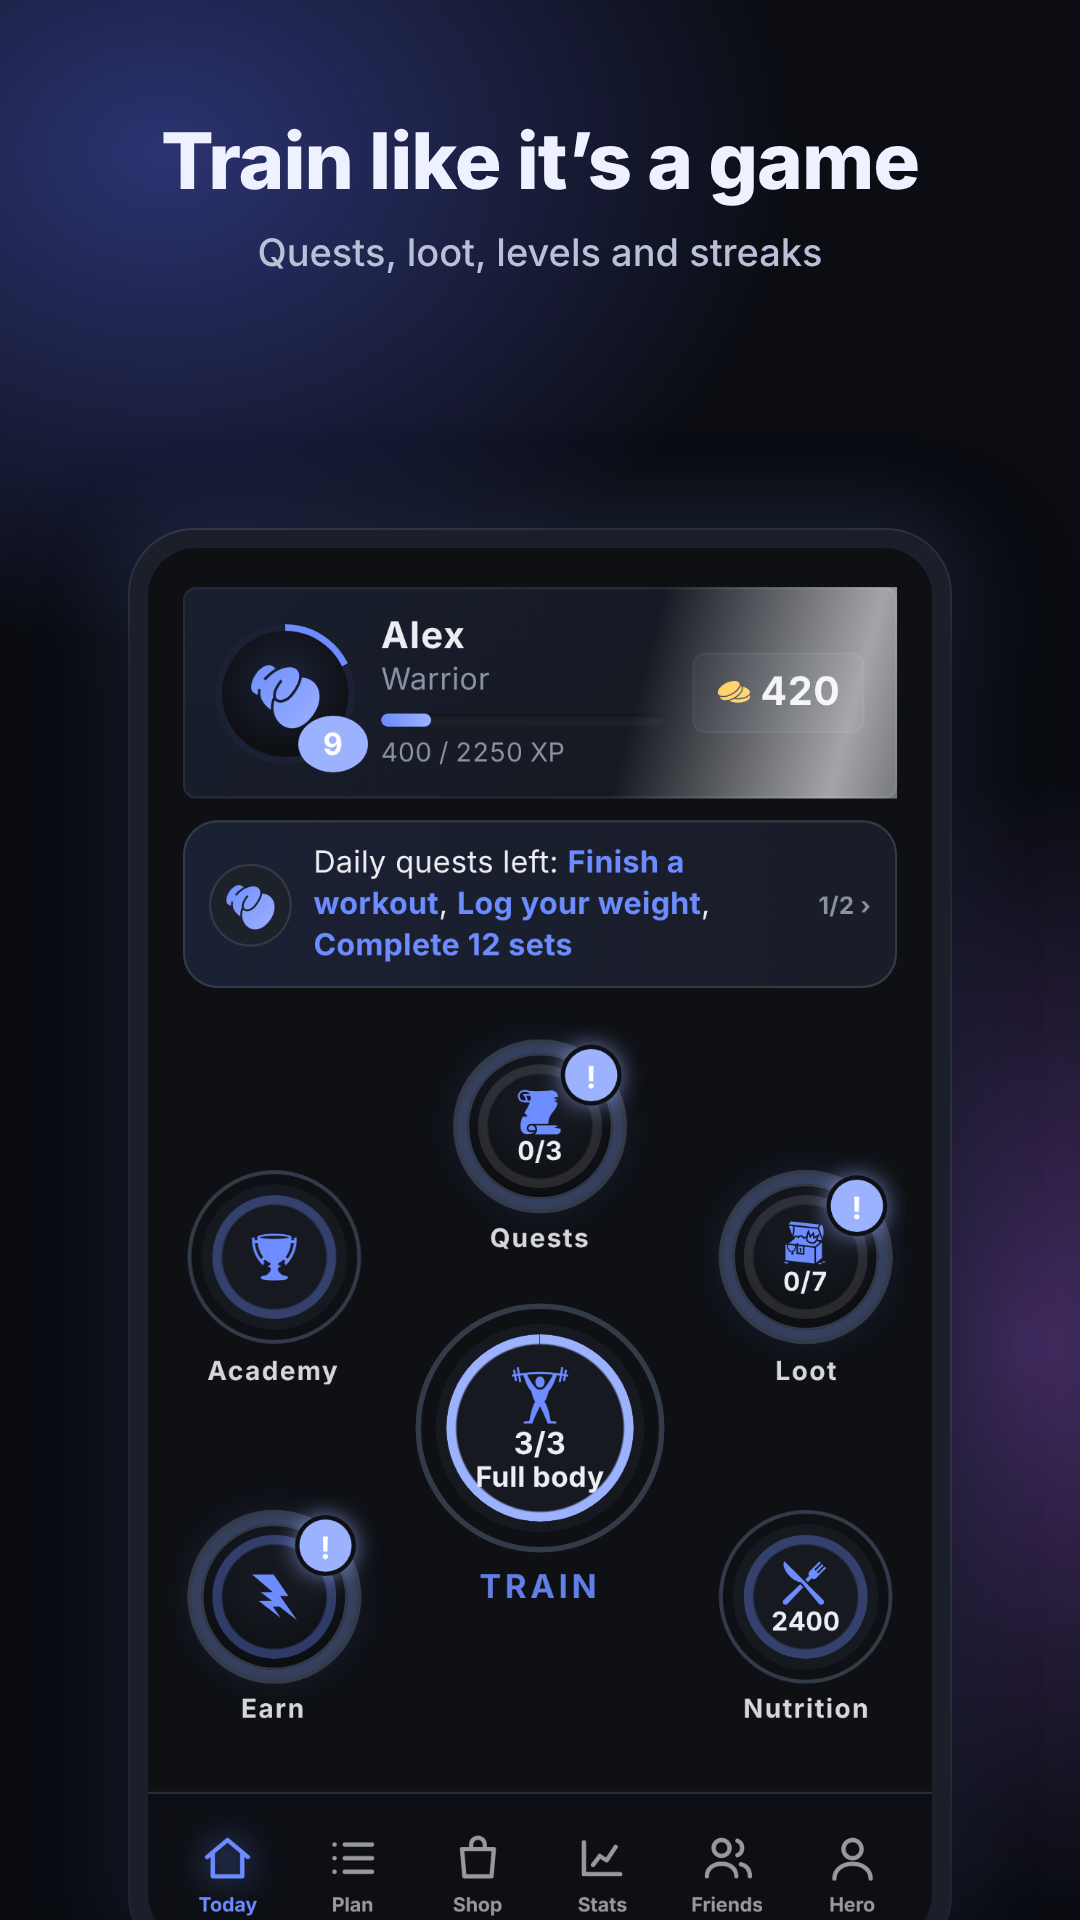
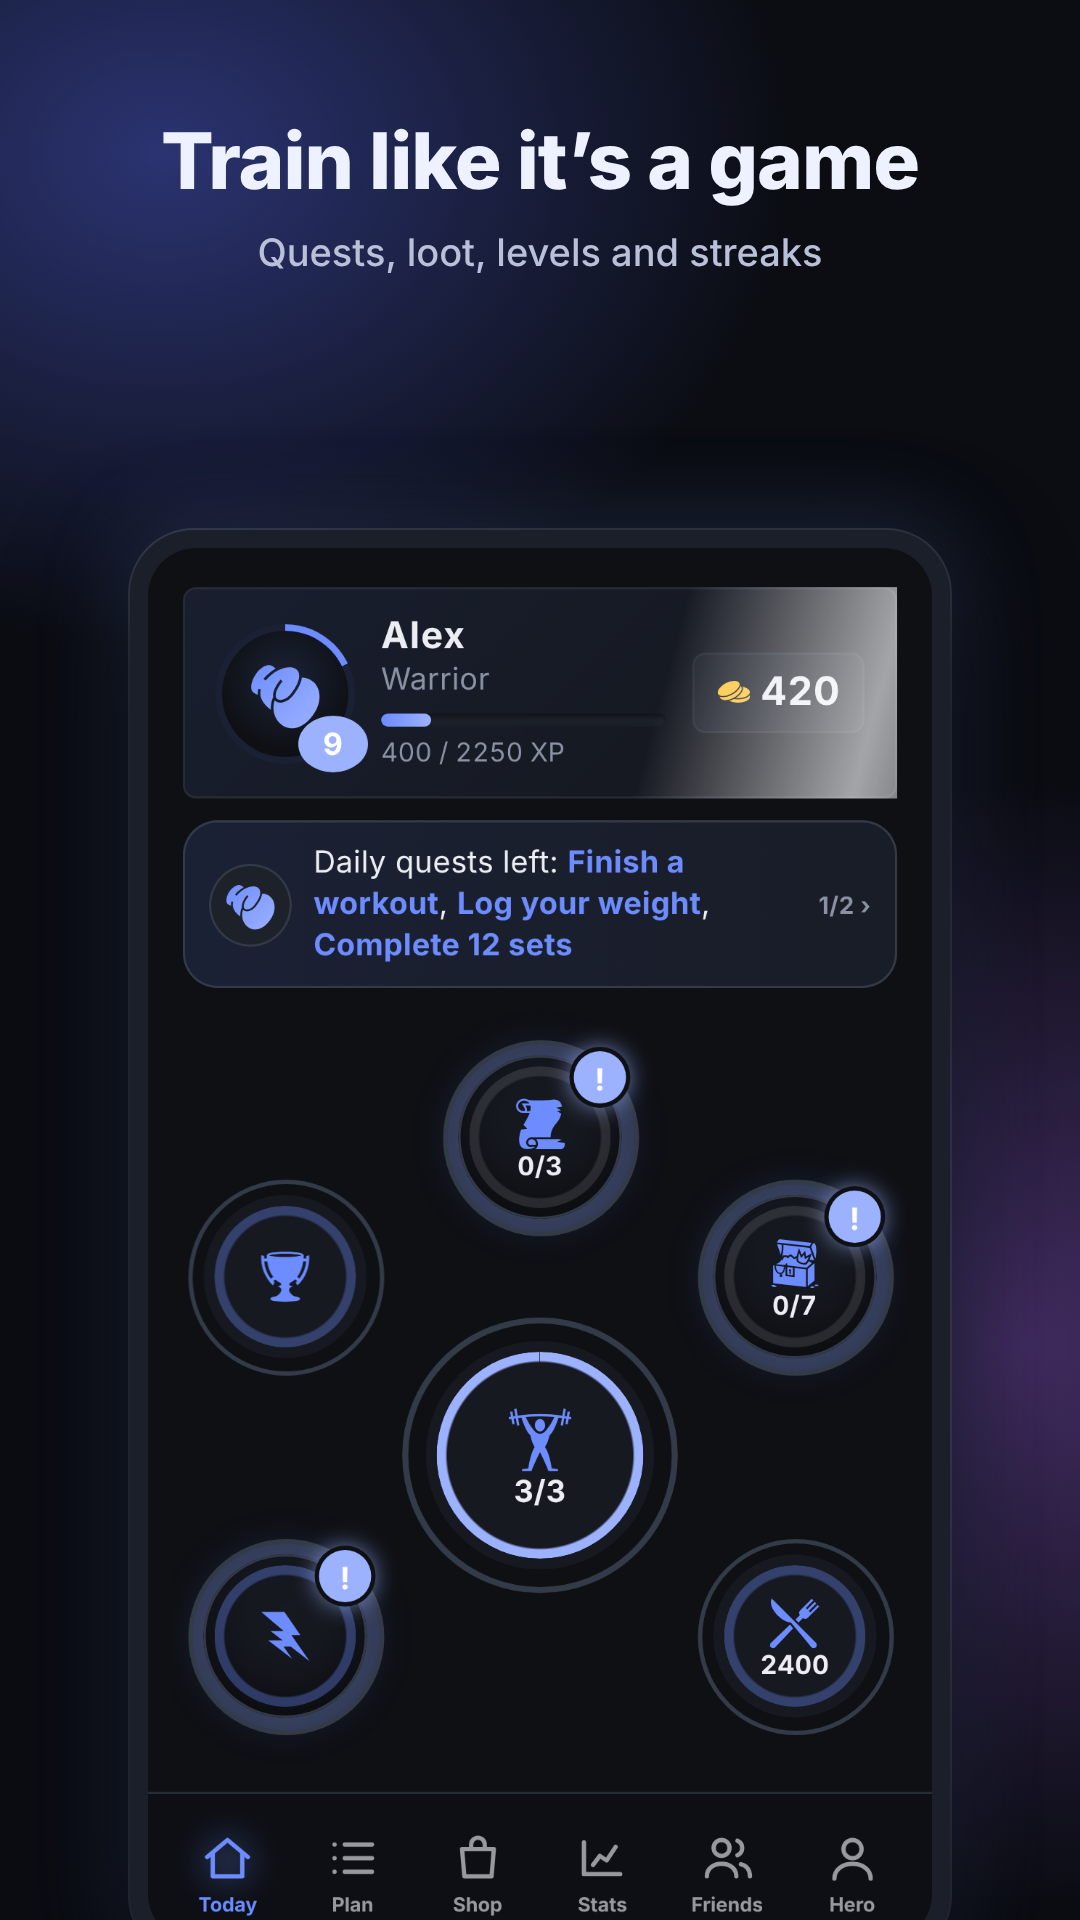
FitQuest v203: Today's bubbles without names (the name shows as the title once a bubble opens) and no workout name on the Train bubble; Play screenshots and feature graphic made again
Claude-Session: https://claude.ai/code/session_014cfEHRVu5BbvycKxEK6aVG

diff --git a/fitai-app/sw.js b/fitai-app/sw.js
@@ -1,4 +1,4 @@
-const V = 'fitquest-v202';
+const V = 'fitquest-v203';
 const SHELL = ['./', 'index.html', 'style.css', 'hud.css', 'skins.css', 'app.js', 'bodymap.js', 'i18n.js', 'data/body.json', 'es-ui.js', 'es-food.js', 'game.js', 'recipes.js', 'cuisines.js', 'antiinflam.js', 'meals.js', 'earn.js', 'icons.js', 'shop.js', 'ranks.js', 'sport.js', 'ios.js', 'routines.js', 'bets.js', 'foodlog.js', 'halloween.js', 'wgoals.js', 'reminders.js', 'myex.js', 'community.js', 'foodcam.js', 'bubbles.js', 'recap.js', 'weekcard.js', 'extras.js', 'pay.js', 'sounds.js', 'profile.js', 'lifted.js', 'cloud.js', 'swipe.js', 'manifest.webmanifest', 'data/exercises.json', 'data/exercises-more.json', 'data/videos.json', 'data/es-exercises.json', 'icons/icon-192.png', 'icons/icon-512.png', 'icons/icon-maskable-512.png', 'icons/apple-touch-icon.png', 'icons/favicon.png', 'icons/gi/abs.svg', 'icons/gi/pumpkin.svg', 'icons/gi/cur-halloween.svg', 'icons/gi/bat.svg', 'icons/gi/ghostie.svg', 'icons/gi/batwing.svg', 'icons/gi/batwingl.svg', 'icons/gi/alien.svg', 'icons/gi/anchor.svg', 'icons/gi/anvil.svg', 'icons/gi/astronaut.svg', 'icons/gi/banner.svg', 'icons/gi/bear.svg', 'icons/gi/bee.svg', 'icons/gi/biceps.svg', 'icons/gi/bolt.svg', 'icons/gi/book.svg', 'icons/gi/boxing.svg', 'icons/gi/bull.svg', 'icons/gi/cactus.svg', 'icons/gi/calendar.svg', 'icons/gi/centurion.svg', 'icons/gi/chef.svg', 'icons/gi/chest-gold.svg', 'icons/gi/chest-silver.svg', 'icons/gi/chestplate.svg', 'icons/gi/coin.svg', 'icons/gi/cur-hud.svg', 'icons/gi/cur-chinese.svg', 'icons/gi/cur-japanese.svg', 'icons/gi/cur-fairy.svg', 'icons/gi/cur-medieval.svg', 'icons/gi/cur-steampunk.svg', 'icons/gi/cur-greek.svg', 'icons/gi/cur-egypt.svg', 'icons/gi/cur-viking.svg', 'icons/gi/cur-pirate.svg', 'icons/gi/cur-outrun.svg', 'icons/gi/cur-arcade.svg', 'icons/gi/cur-classical.svg', 'icons/gi/cur-artdeco.svg', 'icons/gi/cur-gothic.svg', 'icons/gi/cur-baroque.svg', 'icons/gi/cur-mythical.svg', 'icons/gi/cur-cosmic.svg', 'icons/gi/coins.svg', 'icons/gi/compass.svg', 'icons/gi/crate.svg', 'icons/gi/crown.svg', 'icons/gi/cutlery.svg', 'icons/gi/dice.svg', 'icons/gi/dragon.svg', 'icons/gi/duck.svg', 'icons/gi/eagle.svg', 'icons/gi/feather.svg', 'icons/gi/fist.svg', 'icons/gi/flame.svg', 'icons/gi/fox.svg', 'icons/gi/frame.svg', 'icons/gi/gate.svg', 'icons/gi/ghost.svg', 'icons/gi/glove.svg', 'icons/gi/glute.svg', 'icons/gi/golem.svg', 'icons/gi/gorilla.svg', 'icons/gi/horse.svg', 'icons/gi/infinity.svg', 'icons/gi/key.svg', 'icons/gi/kraken.svg', 'icons/gi/laurel.svg', 'icons/gi/leaf.svg', 'icons/gi/leg.svg', 'icons/gi/lifter.svg', 'icons/gi/lion.svg', 'icons/gi/lock.svg', 'icons/gi/lotus.svg', 'icons/gi/medal.svg', 'icons/gi/minotaur.svg', 'icons/gi/moon.svg', 'icons/gi/mountain.svg', 'icons/gi/ninja.svg', 'icons/gi/owl.svg', 'icons/gi/pack.svg', 'icons/gi/palette.svg', 'icons/gi/panda.svg', 'icons/gi/penguin.svg', 'icons/gi/pine.svg', 'icons/gi/pot.svg', 'icons/gi/punch.svg', 'icons/gi/push.svg', 'icons/gi/ram.svg', 'icons/gi/raven.svg', 'icons/gi/robot.svg', 'icons/gi/rocket.svg', 'icons/gi/rooster.svg', 'icons/gi/rope.svg', 'icons/gi/samurai.svg', 'icons/gi/scale.svg', 'icons/gi/scorpion.svg', 'icons/gi/scroll.svg', 'icons/gi/shark.svg', 'icons/gi/shield.svg', 'icons/gi/shoe.svg', 'icons/gi/shoulder.svg', 'icons/gi/sleep.svg', 'icons/gi/slot.svg', 'icons/gi/snowflake.svg', 'icons/gi/sofa.svg', 'icons/gi/sparkles.svg', 'icons/gi/spartan.svg', 'icons/gi/spine.svg', 'icons/gi/sprint.svg', 'icons/gi/stopwatch.svg', 'icons/gi/strong.svg', 'icons/gi/sun.svg', 'icons/gi/sunrise.svg', 'icons/gi/swords.svg', 'icons/gi/target.svg', 'icons/gi/temple.svg', 'icons/gi/ticket.svg', 'icons/gi/tiger.svg', 'icons/gi/torso.svg', 'icons/gi/treasure.svg', 'icons/gi/trex.svg', 'icons/gi/trophy.svg', 'icons/gi/turtle.svg', 'icons/gi/unicorn.svg', 'icons/gi/upgrade.svg', 'icons/gi/user.svg', 'icons/gi/viking.svg', 'icons/gi/water.svg', 'icons/gi/weight.svg', 'icons/gi/wheel.svg', 'icons/gi/wolf.svg', 'icons/gi/wyvern.svg'];
 
 self.addEventListener('install', e => {

diff --git a/fitai-app/bubbles.js b/fitai-app/bubbles.js
@@ -16,8 +16,7 @@ let BUB_INFO = {};
 function bubble(id, i, big) {
   const [ico0, label] = BUB_DEF[id], f = BUB_INFO[id] || {}, ico = f.ico || ico0, p = f.p == null ? 1 : Math.max(0, Math.min(1, f.p));
   return `<button class="bub b-${id}${big ? ' big' : ''}${f.bad ? ' hot' : ''}${f.p == null ? ' full' : ''}" data-b="${id}" style="--i:${i};--bp:${p.toFixed(3)}" onclick="openBub('${id}')" aria-label="${label}">
-    <span class="orb"><span class="oi">${gi(ico, big ? 'hero' : '')}</span>${f.v != null ? `<b class="ov">${f.v}</b>` : ''}${big && f.name ? `<span class="on2">${esc(f.name)}</span>` : ''}${f.bad ? '<i class="bdg">!</i>' : ''}</span>
-    <span class="bl">${label}</span></button>`;
+    <span class="orb"><span class="oi">${gi(ico, big ? 'hero' : '')}</span>${f.v != null ? `<b class="ov">${f.v}</b>` : ''}${f.bad ? '<i class="bdg">!</i>' : ''}</span></button>`;
 }
 
 // The check-in streak runs in weeks of 7 days; day 7 brings a silver chest. A streak is always at least day 1
@@ -97,7 +96,7 @@ function layoutOrbs() {
   if (!orbs) return;
   const navH = document.querySelector('nav#tabs')?.offsetHeight || 80, top = orbs.getBoundingClientRect().top + scrollY;
   const W = orbs.clientWidth, H = Math.max(360, innerHeight - top - navH - 6); // fills the screen exactly (Today doesn't scroll)
-  const big = orbs.querySelector('.bub.big'), sats = [...orbs.querySelectorAll('.bub:not(.big)')], n = sats.length, LBL = 24;
+  const big = orbs.querySelector('.bub.big'), sats = [...orbs.querySelectorAll('.bub:not(.big)')], n = sats.length, LBL = 0;
   orbs.style.height = `${H}px`;
   const E = 1.12; // ring ornaments reach a bit past each circle; neighbours' ornaments may touch, circles may not
   // spots around the middle, as fractions of the free width and height (clockwise from the top), kept away from the middle row
@@ -115,7 +114,6 @@ function layoutOrbs() {
     const by = up.length && down.length ? (Math.max(...up) + Math.min(...down)) / 2 : 0;
     const room = Math.min(H / 2, ...at.flatMap(([x, y]) => [
       Math.hypot(x, y - by) - d * O / 2 - 26,
-      Math.hypot(x - Math.sign(x) * Math.min(Math.abs(x), 36), y + d * O / 2 + 8 - by) - 24, // its label
     ]));
     return { d, rx, ry, at, by, B: Math.round(Math.min(230, W * .56, 2 * room / O)) };
   };

diff --git a/fitai-app/app.js b/fitai-app/app.js
@@ -762,7 +762,7 @@ function settings() {
   <h2 class="sec">Your data</h2>
   <div class="row"><button class="btn ghost" id="exp">Export</button><button class="btn ghost" id="rst">Delete everything</button></div>
   ${APP_CODE && !APP_PLAY && !APP_DEV ? `<section class="card row between setrow"><div><b>App 1.${APP_CODE}</b>${APP_NEW ? `<div class="mut">${esc(APP_NEW.name)} is ready</div>` : ''}</div>${APP_NEW ? `<a class="btn sm" href="${APP_NEW.url}">Update</a>` : '<button class="btn sm ghost" onclick="appUpdate(true)">Check</button>'}</section>` : ''}
-  <div class="mut setfoot"><span>FitQuest version 202</span> · <span>free, no ads. Without an account everything stays on this device. Estimates are guidance, not medical advice. Exercises: free-exercise-db (Unlicense). Muscle maps: react-native-body-highlighter (MIT). Fonts: Google Fonts (SIL OFL).</span> <span>${GI_CREDIT}</span> <a href="privacy.html" target="_blank" rel="noopener">Privacy</a> · <a href="CREDITS.md" target="_blank" rel="noopener">Credits</a></div>`;
+  <div class="mut setfoot"><span>FitQuest version 203</span> · <span>free, no ads. Without an account everything stays on this device. Estimates are guidance, not medical advice. Exercises: free-exercise-db (Unlicense). Muscle maps: react-native-body-highlighter (MIT). Fonts: Google Fonts (SIL OFL).</span> <span>${GI_CREDIT}</span> <a href="privacy.html" target="_blank" rel="noopener">Privacy</a> · <a href="CREDITS.md" target="_blank" rel="noopener">Credits</a></div>`;
   $('#exp').onclick = () => {
     const url = URL.createObjectURL(new Blob([JSON.stringify({ profile: S.profile, plan: S.plan, history: S.history, weights: S.weights }, null, 1)], { type: 'application/json' }));
     const a2 = document.createElement('a'); a2.href = url; a2.download = 'fitquest-data.json'; a2.click();
